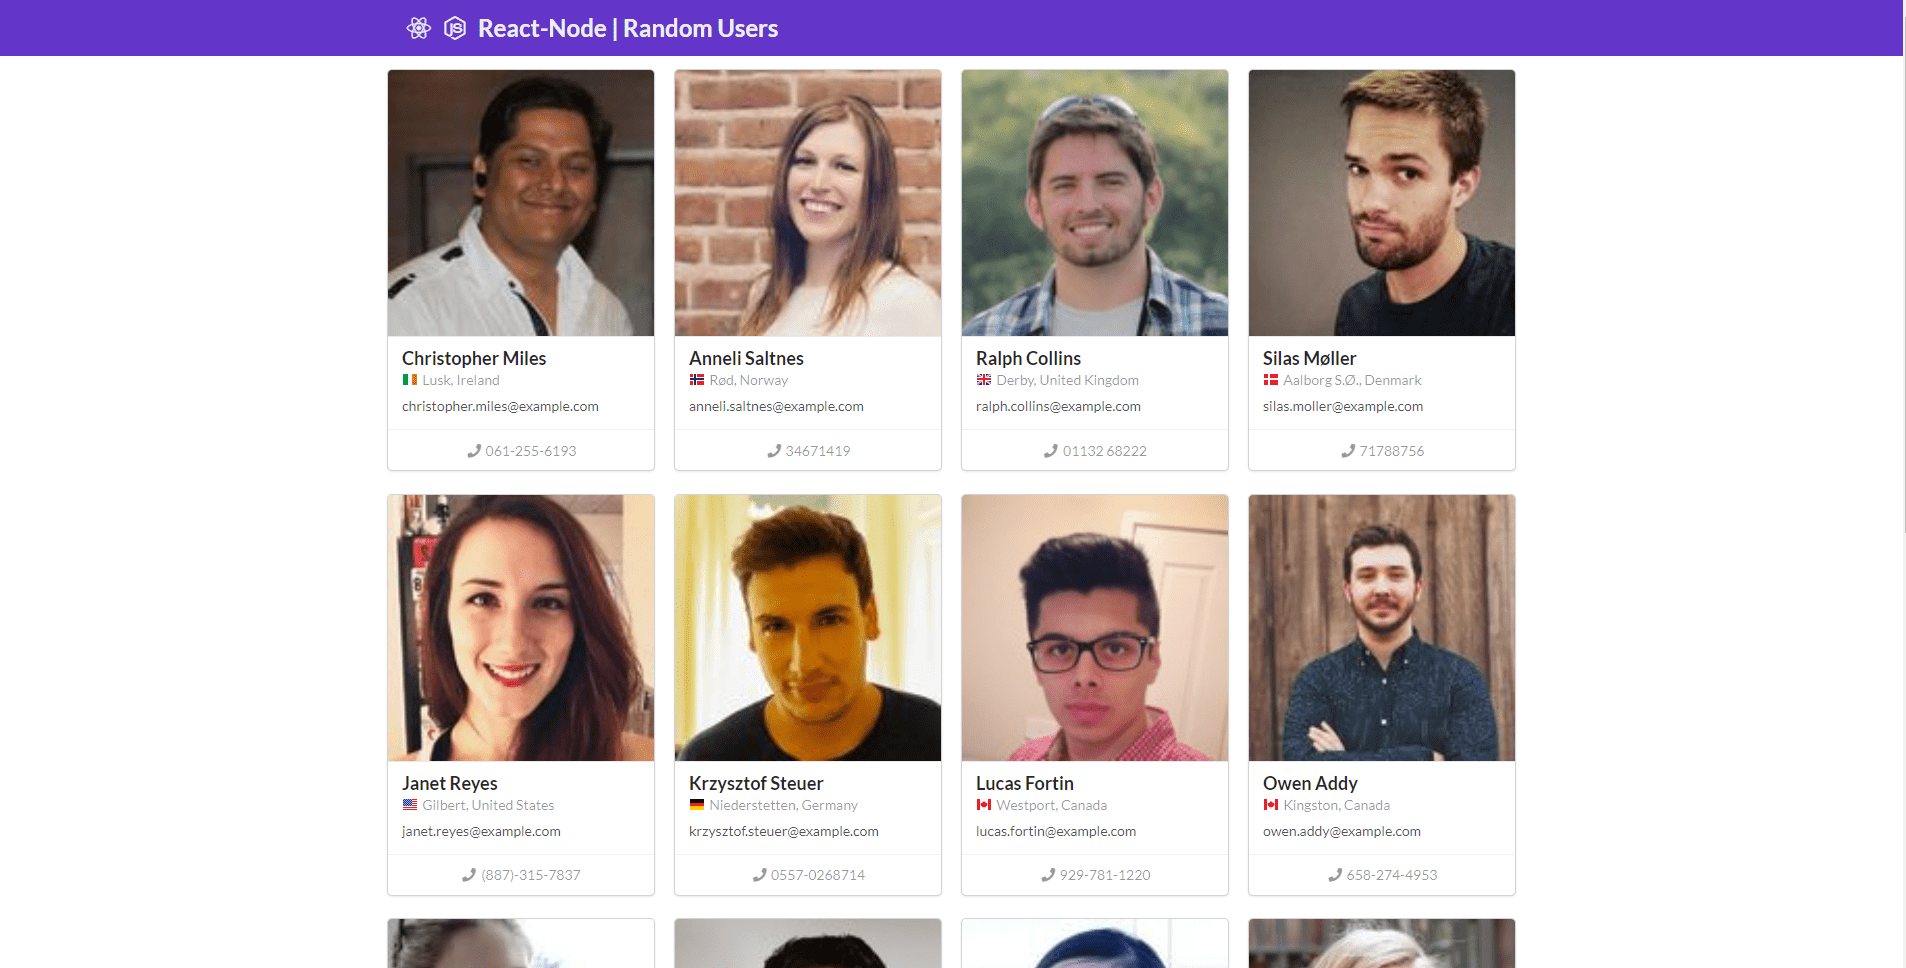
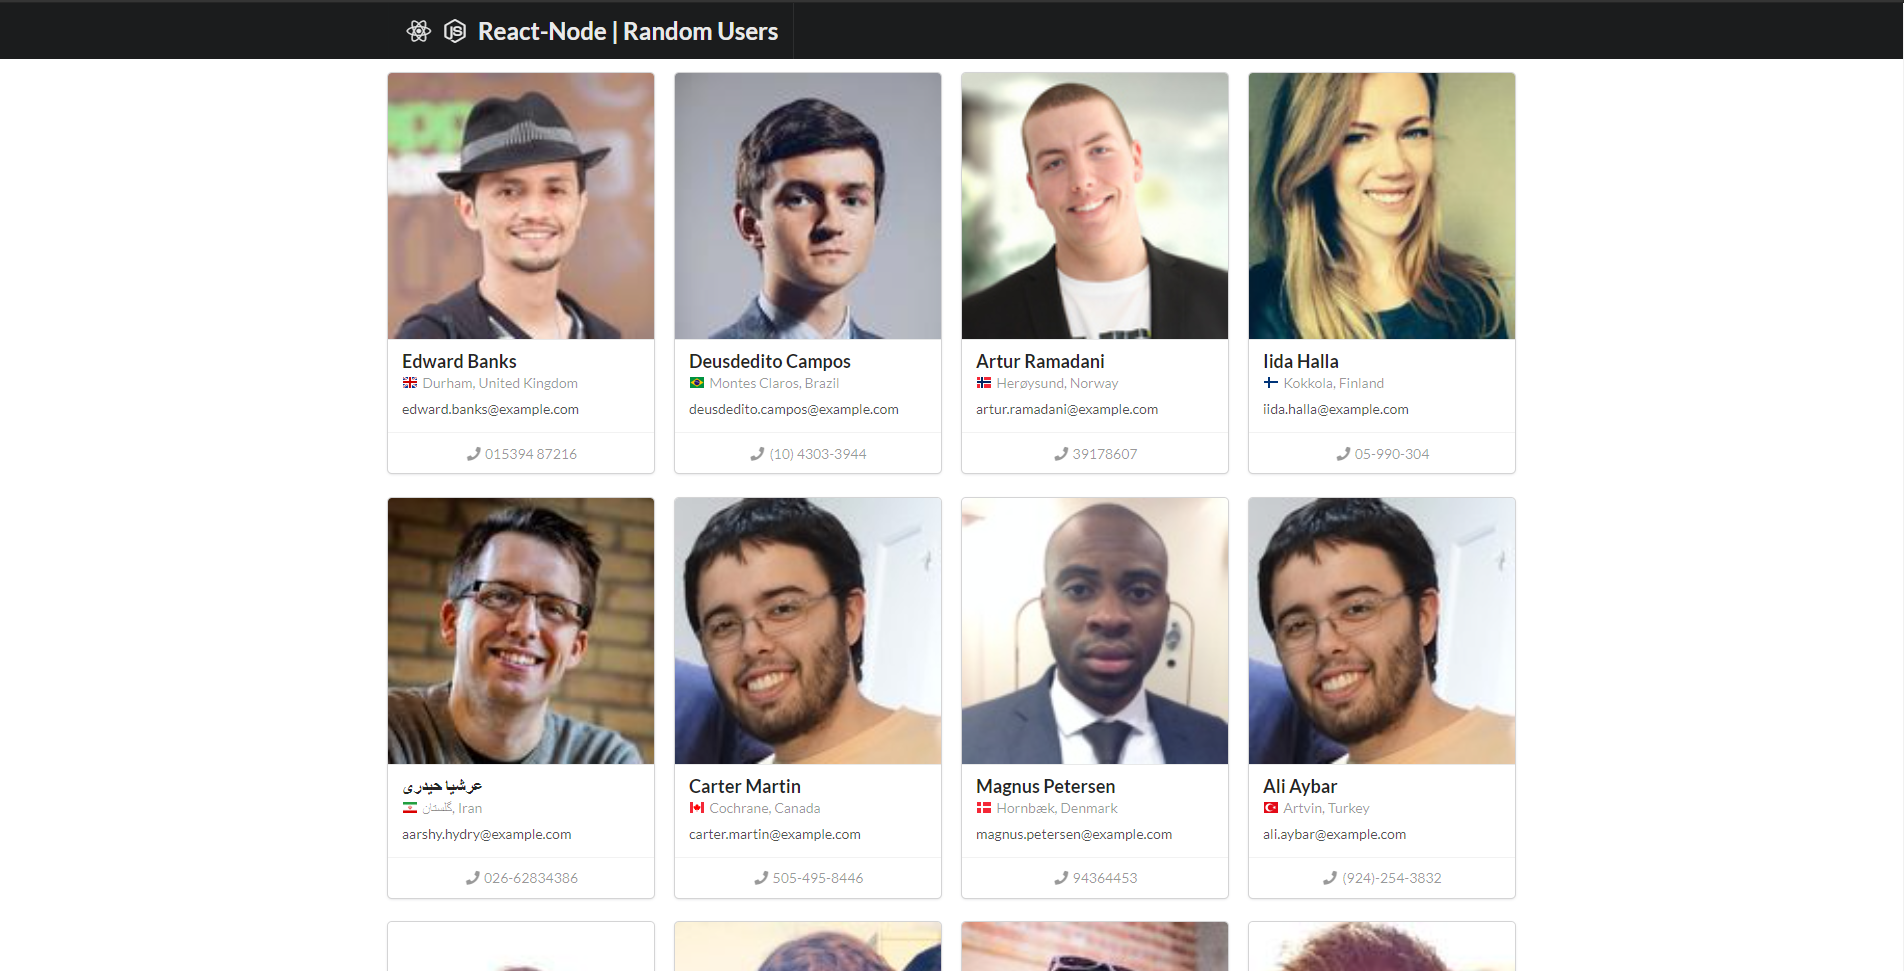
Changed navbar color + Updated screenshot

diff --git a/src/components/Header.js b/src/components/Header.js
@@ -3,7 +3,7 @@ import {Container, Icon, Menu} from "semantic-ui-react";
 
 const Header = () => {
     return (
-        <Menu color='violet' inverted stackable style={{borderRadius: 0}}>
+        <Menu inverted stackable style={{borderRadius: 0}}>
             <Container>
                 <Menu.Item>
                     <h2><Icon name='react'/> <Icon name='node js'/> React-Node | Random Users</h2>
